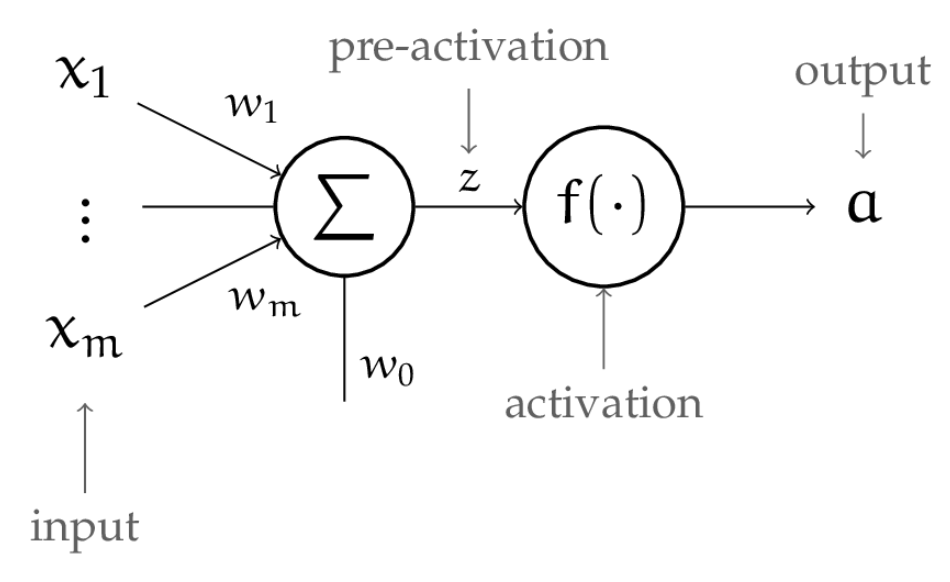
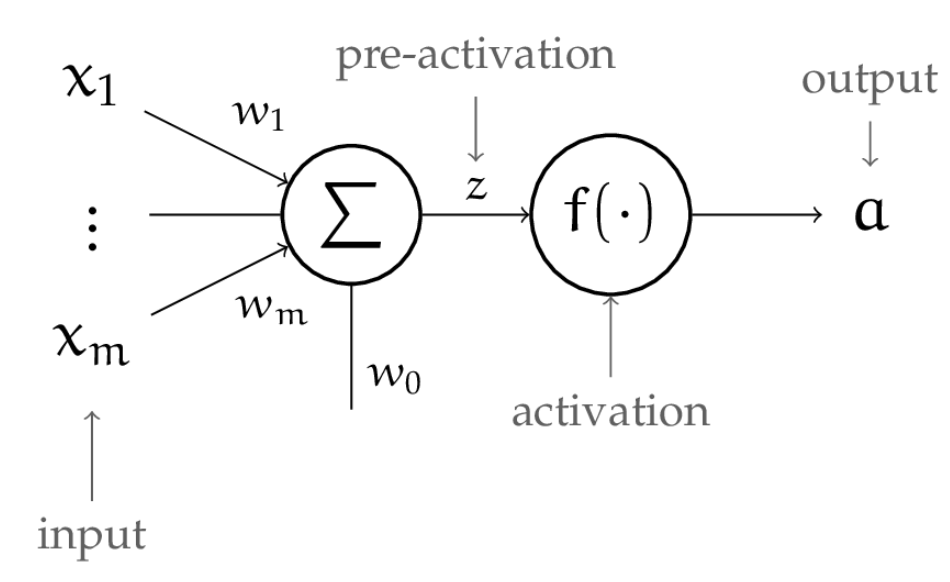
vault backup: 2024-01-16 13:34:49

diff --git a/content/ML/Artificial Neuron.md b/content/ML/Artificial Neuron.md
@@ -7,7 +7,7 @@ aliases:
 ---
 The basic element of a neural network is called a neuron. This is also sometimes called a [[Perceptron|Perceptron]] but I prefer to use perceptron to refer to the learning algorithm; it is also referred to as "unit" or "node".
 
-![[Artificial Neuron.png|464]]
+![[Artificial Neuron.png]]
 
 The neuron is essentially a non-linear function of an input vector $x \in \mathbb{R}^{m}$ to a single value $a \in \mathbb{R}$.  It is parametrized by:
 - A vector of *weights* $(w_{1}, \dots, w_{m}) \in \mathbb{R}^{m}$ and an *offset*/*threshold* $w_{0} \in \mathbb{R}$.
